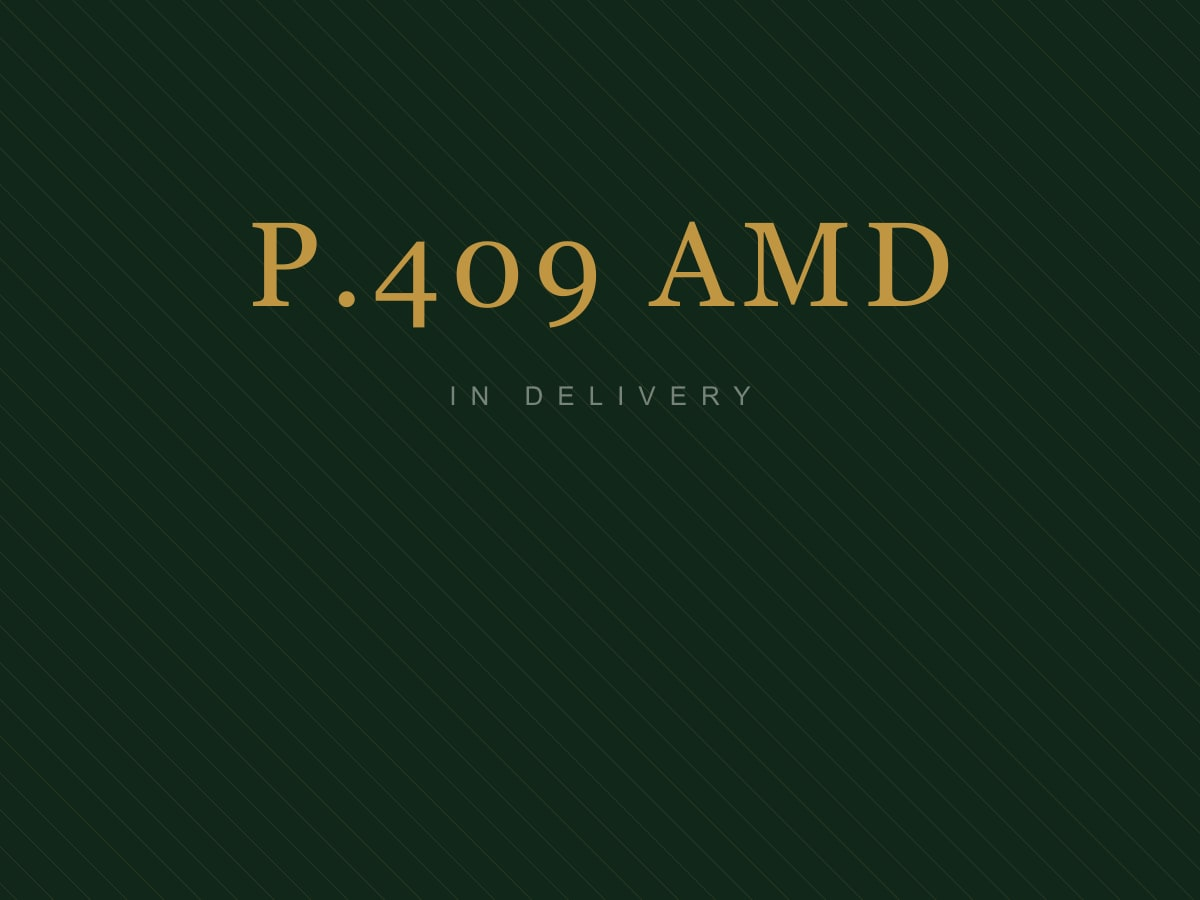
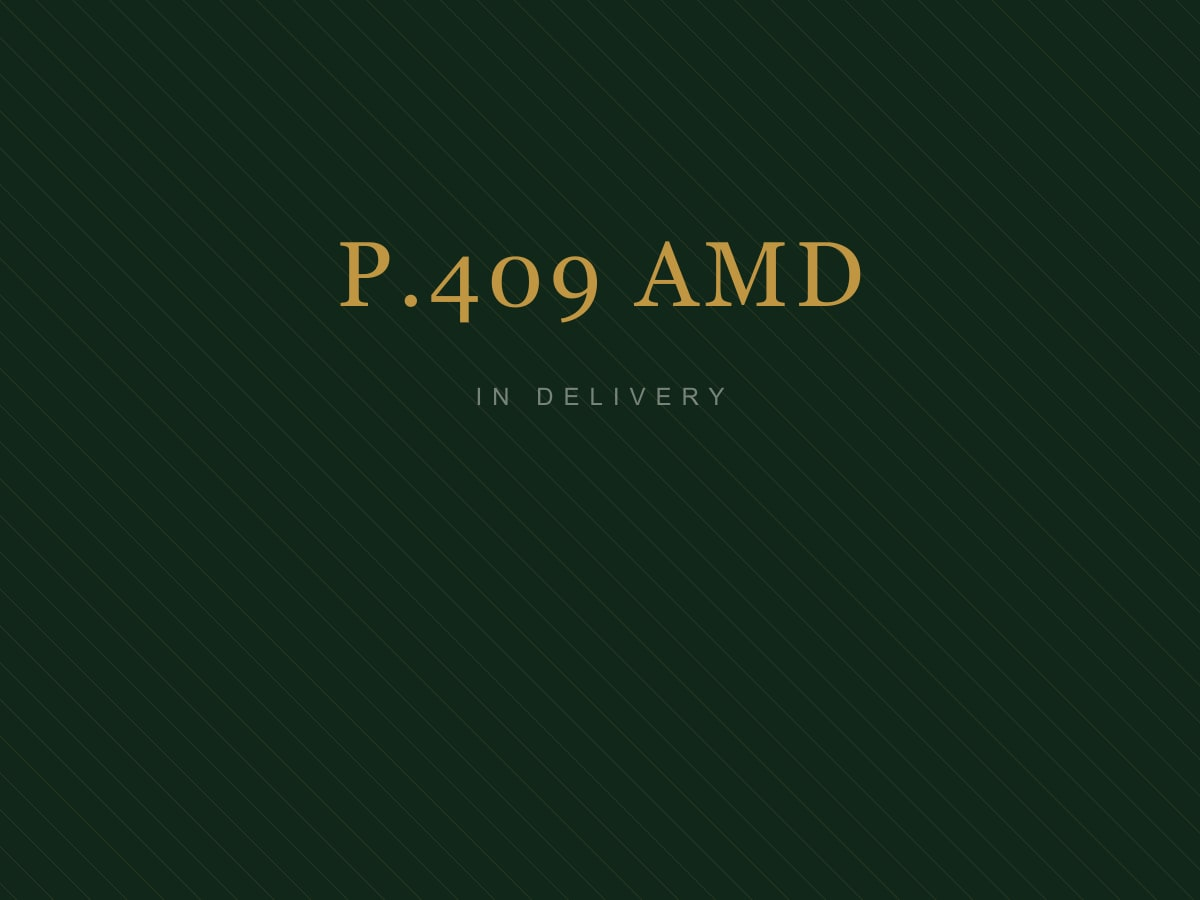
Let the register cards join the portfolio grid outright
The seam is gone too: no "In delivery" label, no hairline, no show-all fold.
The sixteen live projects render inside the same masonry grid as the nineteen
delivered ones — one grid of thirty-five — distinguishable only by the small
project-number chip each register card carries. The Public Prosecution
Authority Building leads the register block, as asked; the rest keep register
order. Clicking a register card still opens the shared modal with the full
description, the project number on its place line.

The typographic plates are re-baked with the code at 92px: the merged grid's
every-7th card is a tall 3/4.5 crop that keeps only the middle half of a 4:3
plate's width, and at the old 120px the widest codes would have lost their
edges to it.

CurrentPortfolio.tsx goes away entirely — the cards are ordinary grid cards
now, and the fold logic, seam markup and hidden-card reveal handling had no
remaining purpose.

diff --git a/site/components/PortfolioGrid.tsx b/site/components/PortfolioGrid.tsx
@@ -3,15 +3,38 @@
 import { useEffect, useRef } from "react";
 import gsap from "gsap";
 import { ScrollTrigger } from "gsap/ScrollTrigger";
-import { moreProjects, projectNames } from "@/lib/content";
+import { moreProjects, projectNames, type Project } from "@/lib/content";
+import { currentPortfolio } from "@/lib/register";
 import Reveal from "./Reveal";
 import { openProject } from "./ProjectModal";
-import CurrentPortfolio from "./CurrentPortfolio";
 
 gsap.registerPlugin(ScrollTrigger);
 
 /** Extended portfolio — cream curtain sliding over the dark gallery,
  *  masonry-style grid with staggered GSAP reveals + name wall. */
+type WallCard = Project & { code?: string };
+
+/**
+ * The delivered selection and the live register render as ONE grid: the
+ * register cards were first their own headed section, then a labelled
+ * sub-grid, and both read as a seam the section didn't need. Order: the
+ * nineteen delivered cards, then the sixteen in delivery — led by the Public
+ * Prosecution Authority Building, the rest in register order.
+ */
+const WALL: WallCard[] = [
+  ...moreProjects,
+  ...[...currentPortfolio].sort((a, b) =>
+    (b.code.includes("PPM") ? 1 : 0) - (a.code.includes("PPM") ? 1 : 0)
+  ).map((r) => ({
+    sector: r.sector,
+    name: r.name,
+    place: r.place ? `${r.code} · ${r.place}` : r.code,
+    img: r.img,
+    desc: r.desc,
+    code: r.code,
+  })),
+];
+
 export default function PortfolioGrid() {
   const root = useRef<HTMLElement>(null);
 
@@ -71,7 +94,7 @@ export default function PortfolioGrid() {
             cells. That tiles exactly into 4 columns (2 rows x 4) but leaves
             holes in 3, which is why the wide layout looked gappy. */}
         <div className="grid grid-cols-2 lg:grid-cols-3 2xl:grid-cols-4 gap-4 md:gap-6 [perspective:1200px]">
-          {moreProjects.map((p, i) => (
+          {WALL.map((p, i) => (
             <article
               key={p.name}
               data-gcard
@@ -95,11 +118,16 @@ export default function PortfolioGrid() {
               <span className="absolute top-4 left-4 bg-white/10 backdrop-blur-md border border-white/25 text-cream px-4 py-1.5 rounded-full label label-xs">
                 {p.sector}
               </span>
+              {p.code && (
+                <span className="absolute top-5 right-4 label label-xs text-cream/60">
+                  {p.code}
+                </span>
+              )}
               <div className="absolute inset-x-0 bottom-0 p-5 md:p-6">
                 <h3 className="font-display text-lg md:text-[22px] leading-tight text-cream">
                   {p.name}
                 </h3>
-                <p className="label text-gold mt-2">{p.place}</p>
+                <p className="label text-gold mt-2">{p.code ? p.place.replace(`${p.code} · `, "") : p.place}</p>
                 <p className="hidden sm:block text-[clamp(0.8125rem,0.85vw,1.0625rem)] text-cream/80 font-light leading-relaxed mt-3">
                   {p.desc}
                 </p>
@@ -107,12 +135,6 @@ export default function PortfolioGrid() {
             </article>
           ))}
         </div>
-
-        {/* The live register — sixteen jobs currently on site, in the same
-            card language as the grid above and under the same heading; a
-            hairline and a small label are the only seam. The section reads
-            past -> present -> the long tail. */}
-        <CurrentPortfolio />
 
         {/* Name wall */}
         <Reveal className="mt-20 md:mt-28">
